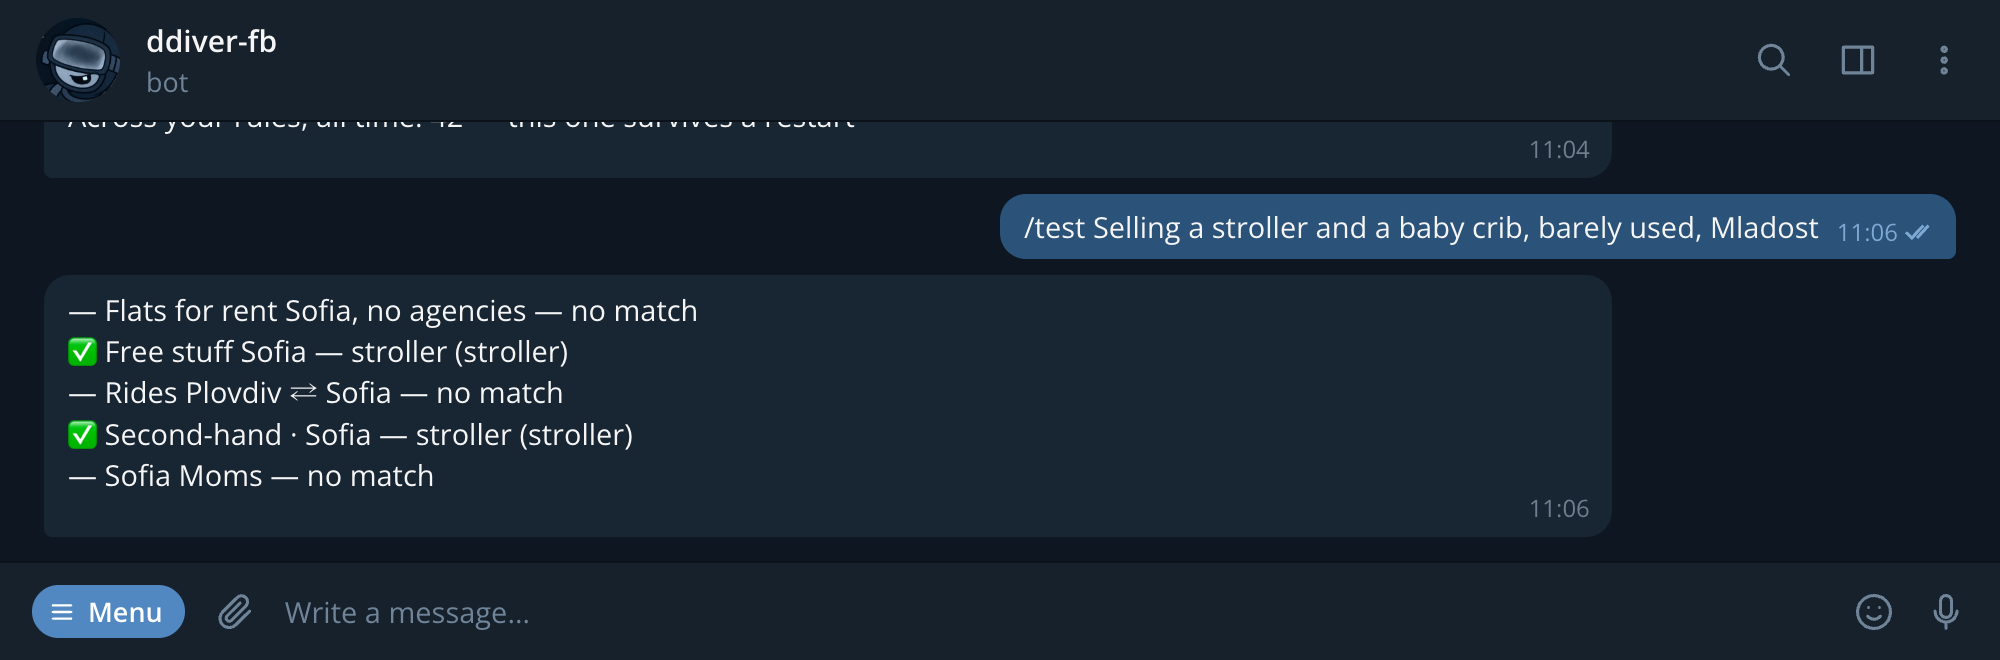
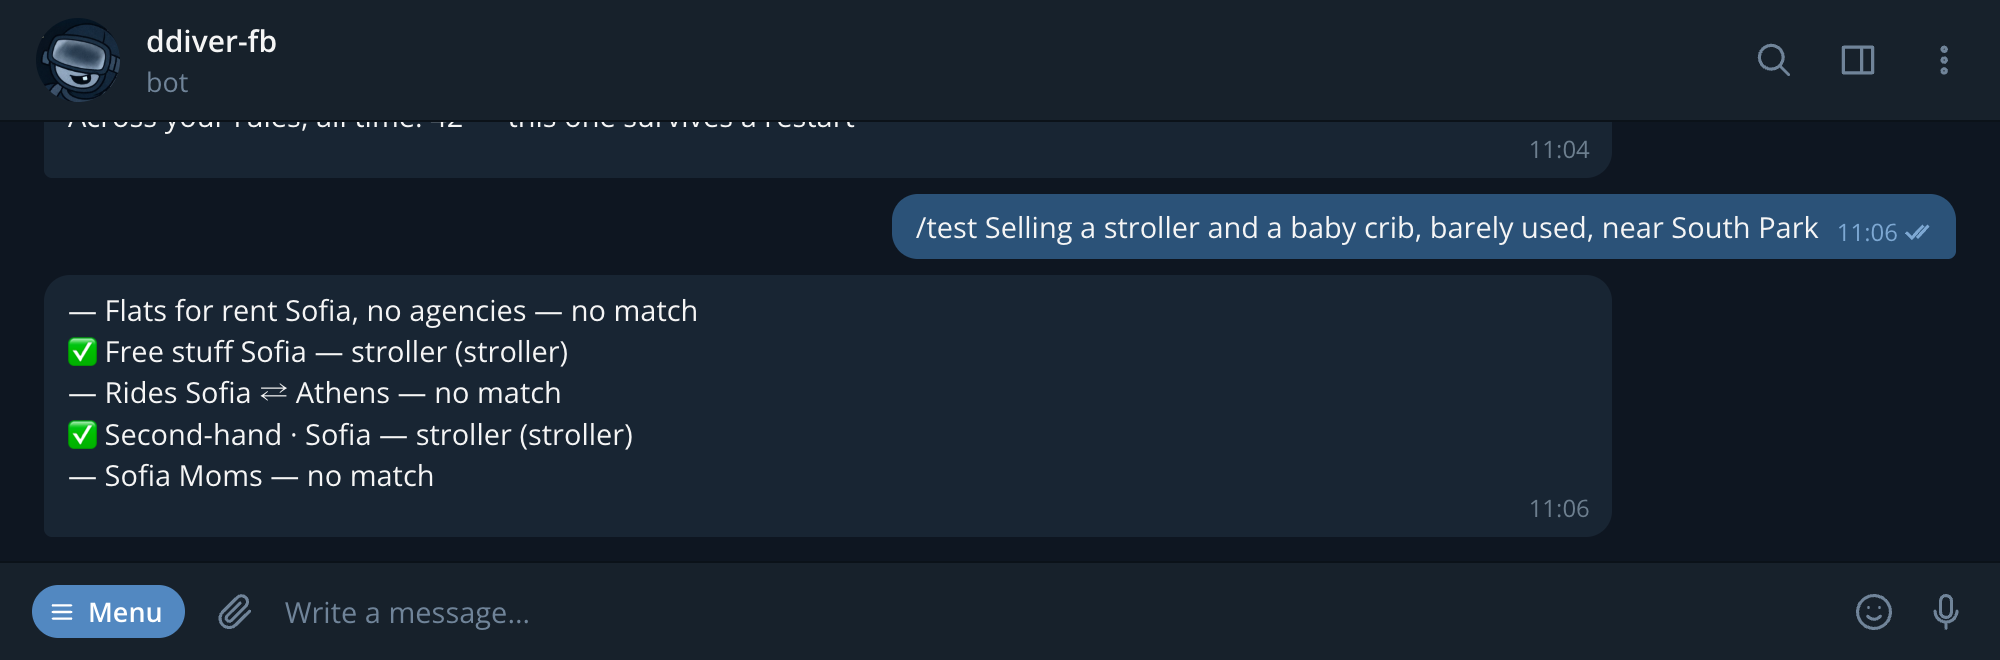
README: English posts in every picture, a robot for the AI rule, a new badge

Changed region(s): [[0.434, 0.2727, 0.93, 0.3939], [0.093, 0.5758, 0.279, 0.6364]]

diff --git a/docs/remotion/src/Workflow.tsx b/docs/remotion/src/Workflow.tsx
@@ -107,15 +107,15 @@ const Caption: React.FC<{children: React.ReactNode; from: number; to: number}> =
 type Post = {name: string; group: string; text: string; hit?: string};
 
 const FEED: Post[] = [
-  {name: 'Elena', group: 'Sofia Moms', text: 'Which kindergarten in Lozenets has places this year?'},
-  {name: 'Petar', group: 'Rides Plovdiv ⇄ Sofia', text: 'Пътувам за София в 7:30, 2 места'},
-  {name: 'Georgi', group: 'Second-hand · Sofia', text: 'Bike, 120 eur, pickup only'},
-  {name: 'Anna K.', group: 'Sofia Moms', text: 'Any good pediatrician in Mladost?'},
-  {name: 'Nikolay', group: 'Free stuff Sofia', text: 'Giving away boxes after the move'},
-  {name: 'Desi', group: 'Flats for rent Sofia', text: 'Двустаен в Гео Милев, 600 евро'},
+  {name: 'Elena', group: 'Sofia Moms', text: 'Which kindergarten in the centre has places this year?'},
+  {name: 'Mark', group: 'Rides Sofia ⇄ Athens', text: 'Driving to Athens at 7:30, 2 seats'},
+  {name: 'Daniel', group: 'Second-hand · Sofia', text: 'Bike, 120 eur, pickup only'},
+  {name: 'Anna K.', group: 'Sofia Moms', text: 'Any good pediatrician near the South Park?'},
+  {name: 'Nick', group: 'Free stuff Sofia', text: 'Giving away boxes after the move'},
+  {name: 'Kate', group: 'Flats for rent Sofia', text: 'Two-room flat by the park, 600 eur'},
   {name: 'Maria P.', group: 'Second-hand · Sofia', text: 'Selling a stroller, barely used, 80 eur', hit: 'stroller'},
-  {name: 'Ivo', group: 'Free stuff Sofia', text: 'Old TV, works, come and take it'},
-  {name: 'Kalina', group: 'Sofia Moms', text: 'Lost a blue mitten near South Park 🧤'},
+  {name: 'Leo', group: 'Free stuff Sofia', text: 'Old TV, works, come and take it'},
+  {name: 'Nina', group: 'Sofia Moms', text: 'Lost a blue mitten near South Park 🧤'},
 ];
 const HIT = FEED.findIndex((p) => p.hit);
 const CARD_H = 74;
@@ -305,7 +305,7 @@ const Verdicts: React.FC = () => {
       >
         <span style={{fontFamily: MONO, fontSize: 14, color: C.grey}}>/ai add {captured.ids.rides} </span>
         <br />
-        “{captured.wish}”
+        🤖 “{captured.wish}”
       </div>
       <div style={{display: 'flex', flexDirection: 'column', gap: 8, marginTop: 14}}>
         {rows.map((v, i) => {
@@ -358,7 +358,7 @@ const Verdicts: React.FC = () => {
           opacity: interpolate(frame, [376, 388], [0, 1], clamp),
         }}
       >
-        {captured.verdicts.length} posts judged · DeepSeek V4.1 Flash · about $0.0002 a post
+        {captured.verdicts.length} posts judged by 🇨🇳🙏 DeepSeek V4.1 Flash 🙏🇨🇳 · about $0.0002 a post
       </div>
     </div>
   );
@@ -369,7 +369,7 @@ export const Workflow: React.FC = () => (
     <Caption from={0} to={102}>A browser at home reads your groups&apos; feed</Caption>
     <Caption from={102} to={168}>A rule catches one post</Caption>
     <Caption from={168} to={262}>The bot tells you</Caption>
-    <Caption from={262} to={TOTAL + 20}>Or say it in words, and a model judges</Caption>
+    <Caption from={262} to={TOTAL + 20}>🤖 Or say it in words, and a model judges</Caption>
     <Feed />
     <Phone />
     <Verdicts />

diff --git a/docs/remotion/src/Banner.tsx b/docs/remotion/src/Banner.tsx
@@ -2,7 +2,9 @@
  * The banner: the hand-drawn original with its top three lines set again.
  *
  * The original says ddiver_facebook and "Forty groups"; the repository is ddiver_fb and one
- * collector reads at most 25 groups (DESIGN, D17). The background behind the text is one flat
+ * collector reads at most 25 groups (DESIGN, D17). Two post cards lose their local names too,
+ * like the GIF and the screenshots: Georgi is Daniel, Ivo is Leo,
+ * Mladost is South Park. The background behind the text is one flat
  * colour, so a patch of it and the same faces at the same places are all the edit takes.
  */
 import React from 'react';
@@ -11,7 +13,7 @@ import {loadFont as loadInter} from '@remotion/google-fonts/Inter';
 import {loadFont as loadMono} from '@remotion/google-fonts/JetBrainsMono';
 import {C} from './theme';
 
-const inter = loadInter('normal', {weights: ['500', '600']});
+const inter = loadInter('normal', {weights: ['400', '500', '600']});
 const mono = loadMono('normal', {weights: ['400']});
 
 export const BANNER_W = 1280;
@@ -21,6 +23,38 @@ const Patch: React.FC<{top: number; height: number}> = ({top, height}) => (
   <div
     style={{position: 'absolute', left: 590, top, width: 690, height, backgroundColor: C.bg}}
   />
+);
+
+/** A line of a post card, set again over the card's own flat colour. */
+const CardLine: React.FC<{
+  left: number;
+  top: number;
+  width: number;
+  height: number;
+  textTop: number;
+  size: number;
+  weight: number;
+  spacing: number;
+  children: React.ReactNode;
+}> = ({left, top, width, height, textTop, size, weight, spacing, children}) => (
+  <>
+    <div style={{position: 'absolute', left, top, width, height, backgroundColor: C.card}} />
+    <div
+      style={{
+        position: 'absolute',
+        left: left + 2,
+        top: textTop,
+        fontFamily: inter.fontFamily,
+        fontSize: size,
+        fontWeight: weight,
+        letterSpacing: spacing,
+        color: C.grey,
+        whiteSpace: 'nowrap',
+      }}
+    >
+      {children}
+    </div>
+  </>
 );
 
 export const Banner: React.FC = () => (
@@ -70,5 +104,14 @@ export const Banner: React.FC = () => (
     >
       “Twenty-five groups. Somebody else can scroll them.”
     </div>
+    <CardLine left={636} top={277} width={210} height={20} textTop={276.8} size={13.5} weight={400} spacing={-0.6}>
+      Any good pediatrician near South Park?
+    </CardLine>
+    <CardLine left={636} top={315} width={40} height={16} textTop={314.8} size={12} weight={600} spacing={-0.7}>
+      Daniel
+    </CardLine>
+    <CardLine left={636} top={426} width={27} height={14} textTop={425.8} size={12} weight={600} spacing={-0.7}>
+      Leo ·
+    </CardLine>
   </AbsoluteFill>
 );

diff --git a/tools/readme_shots.py b/tools/readme_shots.py
@@ -71,20 +71,17 @@ NAMES = {
     SECOND_HAND: "Second-hand · Sofia",
     MOMS: "Sofia Moms",
     FREE: "Free stuff Sofia",
-    RIDES: "Rides Plovdiv ⇄ Sofia",
+    RIDES: "Rides Sofia ⇄ Athens",
     FLATS: "Flats for rent Sofia, no agencies",
     BIKES: "Bikes & scooters BG",
 }
 WATCHED = (SECOND_HAND, MOMS, FREE, RIDES, FLATS)
 
 WISHES = (
-    (RIDES, "people who need a ride from Plovdiv to Sofia, not drivers offering seats"),
+    (RIDES, "people who need a ride from Sofia to Athens, not drivers offering seats"),
     (
         FLATS,
-        (
-            "a two-room flat to rent in Lozenets or Ivan Vazov, up to 700 euro, "
-            "straight from the owner"
-        ),
+        "a two-room flat to rent in the city centre, up to 700 euro, straight from the owner",
     ),
 )
 # (wish index, post id, minutes ago, text, percent, reason): the model's own answers.
@@ -93,57 +90,57 @@ VERDICTS = (
         0,
         3_118_204_779_501,
         14,
-        "Търся място за утре сутрин от Пловдив за София, 1 човек, малък багаж",
+        "Looking for a seat from Sofia to Athens tomorrow morning, 1 person, small bag",
         100,
-        "Passenger seeks ride from Plovdiv to Sofia, exactly matching wish.",
+        "Post is from a person seeking a ride from Sofia to Athens.",
     ),
     (
         0,
         3_118_191_002_845,
         52,
-        "Пътувам Пловдив - София днес 18:00, 3 свободни места, 15лв",
+        "Driving Sofia → Athens today at 18:00, 3 free seats, 30 eur",
         0,
-        "Driver offers seats from Plovdiv to Sofia, not someone needing a ride.",
+        "Driver offers seats Sofia to Athens; user wants passengers seeking rides, not drivers.",
     ),
     (
         0,
         3_117_950_337_160,
         190,
-        "Има ли някой за София от Пловдив сега? Плащам гориво",
+        "Anyone going to Athens from Sofia right now? I'll pay for fuel",
         100,
-        "Post is a passenger seeking ride from Plovdiv to Sofia, paying fuel.",
+        "Poster needs a ride from Sofia to Athens, not offering seats.",
     ),
     (
         0,
         3_117_802_514_473,
         260,
-        "Търся място София - Пловдив в петък вечерта",
+        "Need a ride Athens → Sofia on Friday evening",
         0,
-        "Post seeks Sofia to Plovdiv, opposite direction from desired Plovdiv to Sofia.",
+        "Wrong direction: Athens to Sofia, not Sofia to Athens.",
     ),
     (
         1,
         2_204_617_330_918,
         35,
-        "Давам под наем двустаен в Лозенец, 650 евро, от собственик, без комисионна",
+        "Renting out a two-room flat in the centre, 650 eur, from the owner, no commission",
         100,
-        "Two-room flat in Lozenets, 650 euro, directly from owner, no commission.",
+        "Two-room flat in centre, 650 euro, from owner, matches all conditions",
     ),
     (
         1,
         2_204_598_116_022,
         80,
-        "Агенция Дом+ предлага двустайни апартаменти в Лозенец, 680 евро",
+        "City Homes agency offers two-room flats in the centre, 680 eur",
         0,
-        "Agency offer, not straight from owner, so it does not fit.",
+        "Agency offer, not straight from owner, so does not fit.",
     ),
     (
         1,
         2_204_411_920_457,
         300,
-        "Тристаен в Лозенец, 1100 евро",
+        "Three-room flat near the centre, 1100 eur",
         0,
-        "Three-room flat in Lozenets for 1100 euro, not two-room or under 700.",
+        "Three-room, near centre, 1100 euro, exceeds budget and wrong size",
     ),
 )
 MODEL = "deepseek/deepseek-v4.1-flash"
@@ -255,8 +252,8 @@ def notifications() -> dict[str, dict[str, Any]]:
         "notification": notification(
             SECOND_HAND,
             1_042_877_310_662_905,
-            (100_012_345_678_901, "Maria Petrova"),
-            "Selling a stroller, barely used, 80 eur. Pickup in Mladost 4, can send more photos 🙂",
+            (100_012_345_678_901, "Maria Parker"),
+            "Selling a stroller, barely used, 80 eur. Pickup near South Park, can send photos 🙂",
             "stroller",
             posted=NOW - dt.timedelta(minutes=3, seconds=12),
             seen=NOW,
@@ -265,8 +262,8 @@ def notifications() -> dict[str, dict[str, Any]]:
         "earlier": notification(
             FREE,
             8_830_164_502_771,
-            (61_550_872_014_336, "Ivo Dimitrov"),
-            "Giving away a stroller rain cover and two baby bottles, pickup Lyulin 7 tonight",
+            (61_550_872_014_336, "Leo Dawson"),
+            "Giving away a stroller rain cover and two baby bottles, pickup in the centre tonight",
             "stroller",
             posted=NOW - dt.timedelta(hours=15, minutes=49),
             seen=NOW - dt.timedelta(hours=15, minutes=44),
@@ -403,7 +400,9 @@ async def capture(tmp: Path) -> dict[str, Any]:
 
         clock.tick(75)  # the owner looks a little after the collector's last report
         groups_screen = await say(router, data="chats:0")
-        test = await say(router, "/test Selling a stroller and a baby crib, barely used, Mladost")
+        test = await say(
+            router, "/test Selling a stroller and a baby crib, barely used, near South Park"
+        )
         status_reply = await say(router, "/status")
 
         await seed_verdicts(ai, fb)
@@ -417,7 +416,7 @@ async def capture(tmp: Path) -> dict[str, Any]:
         **notifications(),
         "groups": {"html": text_of(groups_screen), "buttons": buttons(groups_screen.buttons)},
         "test": {
-            "command": "/test Selling a stroller and a baby crib, barely used, Mladost",
+            "command": "/test Selling a stroller and a baby crib, barely used, near South Park",
             "html": text_of(test),
         },
         "status": {"command": "/status", "html": text_of(status_reply)},

diff --git a/packages/ddiver_fb/ddiver_fb/ai.py b/packages/ddiver_fb/ddiver_fb/ai.py
@@ -1,7 +1,7 @@
 """The AI rule on the brain: wishes, the posts waiting for the model, and what it said.
 
-A user writes a wish for a group in plain words ("a two-room flat to rent in Lozenets, up to
-700 euro, straight from the owner"); every new post of that group is judged by a cheap model
+A user writes a wish for a group in plain words ("a two-room flat to rent in the city centre,
+up to 700 euro, straight from the owner"); every new post of that group is judged by a cheap model
 (:mod:`ddiver_fb.judge`), which answers how likely the post fits, in percent, and why.
 
 - **The queue is durable.** :meth:`AiStore.enqueue` runs inside the ingest of the post, before

diff --git a/README.md b/README.md
@@ -1,6 +1,6 @@
 [![CI](https://github.com/vinter-man/ddiver_fb/actions/workflows/ci.yml/badge.svg)](https://github.com/vinter-man/ddiver_fb/actions/workflows/ci.yml)
 ![Python 3.12+](https://img.shields.io/badge/python-3.12%2B-blue)
-![Reads as a member](https://img.shields.io/badge/facebook-reads%20as%20a%20member-orange)
+![Chrome at home](https://img.shields.io/badge/collector-Chrome%20at%20home-orange)
 [![License: MIT](https://img.shields.io/badge/license-MIT-green)](LICENSE)
 
 ![main picture](docs/assets/banner.png)
@@ -21,10 +21,6 @@ Facebook without ever writing to it, and stops at the first warning.
 
 ![demo](docs/assets/workflow.gif)
 
-> :warning: Reading Facebook automatically while logged in breaks Meta's Terms (§3.2), however
-> slowly it is done. The realistic worst case is the account being restricted, so use an
-> account you can afford to lose, not your main one.
-
 ---
 
 ## Table of contents
@@ -33,7 +29,7 @@ Facebook without ever writing to it, and stops at the first warning.
   * [Pick the groups](#groups)
   * [Write the rules](#rules)
   * [Get the one post that matters](#notification)
-  * [Say it in words](#ai)
+  * [:robot: Say it in words](#ai)
   * [When something is wrong](#alerts)
 * [Installation](#installation)
   * [The brain, on a VPS](#brain)
@@ -95,13 +91,13 @@ never hear from this author again, or drop the rule.
 > (`⏳ Posted 30 h ago, appeared in the group only now`). Subscribing never backfills old posts.
 > `ingest.py`, `source.py`, `fbcollector/uplink.py`.
 
-### <a name="ai"></a> Say it in words
+### <a name="ai"></a> :robot: Say it in words
 
 Keywords are bad at "people who need a ride, not drivers who offer one": both posts say
-*Plovdiv*, *Sofia* and *seat*. So the owner can give a group a wish in their own words
+*Sofia*, *Athens* and *seat*. So the owner can give a group a wish in their own words
 
 ```
-/ai add 207845119336801 people who need a ride from Plovdiv to Sofia, not drivers offering seats
+/ai add 207845119336801 people who need a ride from Sofia to Athens, not drivers offering seats
 ```
 
 and every new post of that group goes to a model that answers how likely it fits, in percent,
@@ -113,9 +109,9 @@ It runs in shadow for now: verdicts are recorded, nothing is sent yet, so a wish
 for a few days before it is trusted.
 
 > :suspect: The model was picked by a bake-off: seven models through OpenRouter on 206 real
-> posts from the groups, labelled by hand. DeepSeek V4.1 Flash found every rideshare request
-> with no false one, took none of 135 unrelated classifieds, and costs about $0.24 per
-> thousand posts. Answers are JSON under a strict schema at temperature 0; an empty one is
+> posts from the groups, labelled by hand. :cn: :pray: DeepSeek V4.1 Flash :pray: :cn: found
+> every rideshare request with no false one, took none of 135 unrelated classifieds, and costs
+> about $0.24 per thousand posts. Answers are JSON under a strict schema at temperature 0; an empty one is
 > asked again once.
 >
 > The queue is written in the same step that stores the post, so a post is either judged or
@@ -157,7 +153,7 @@ late a new post may be
 You need four things:
 
 * a computer at home that stays on, macOS or Linux, with Google Chrome
-* a Facebook account that is a member of the groups (see the warning above)
+* a Facebook account that is a member of the groups
 * a small VPS with Docker for the brain and the bot
 * a bot token from [@BotFather](https://t.me/BotFather), an `api_id` and `api_hash` from
   [my.telegram.org](https://my.telegram.org), and your own Telegram user id
